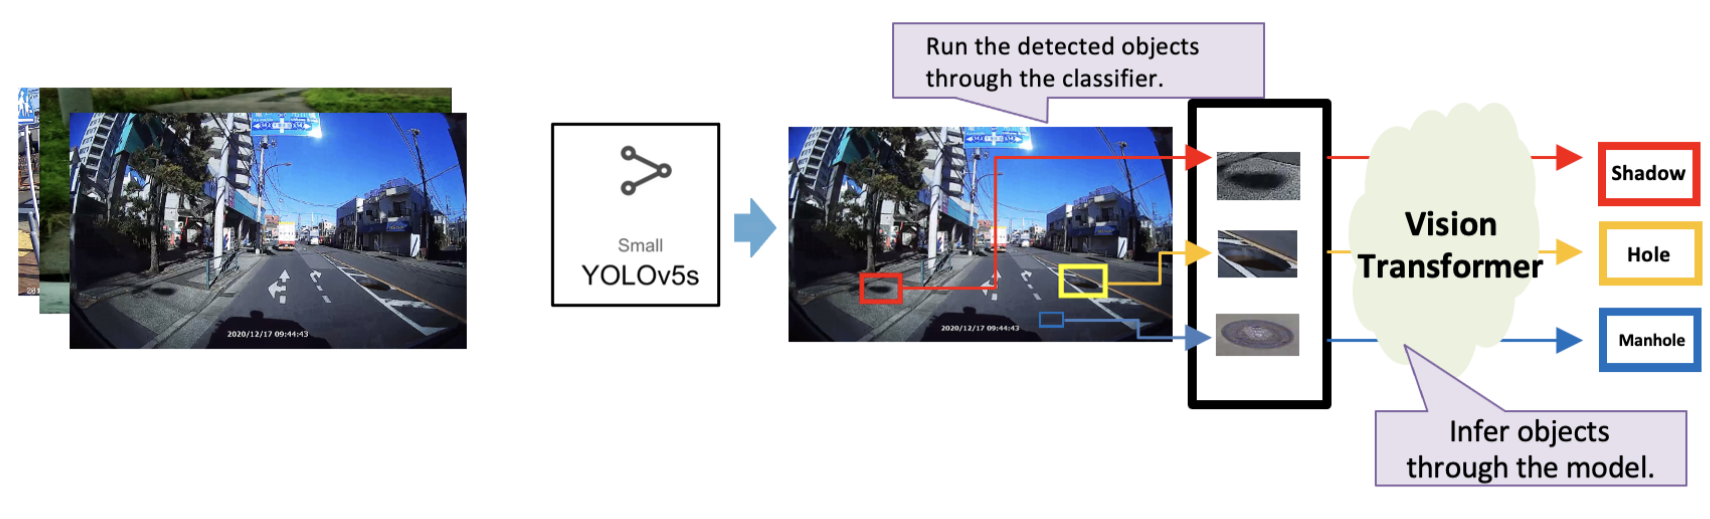
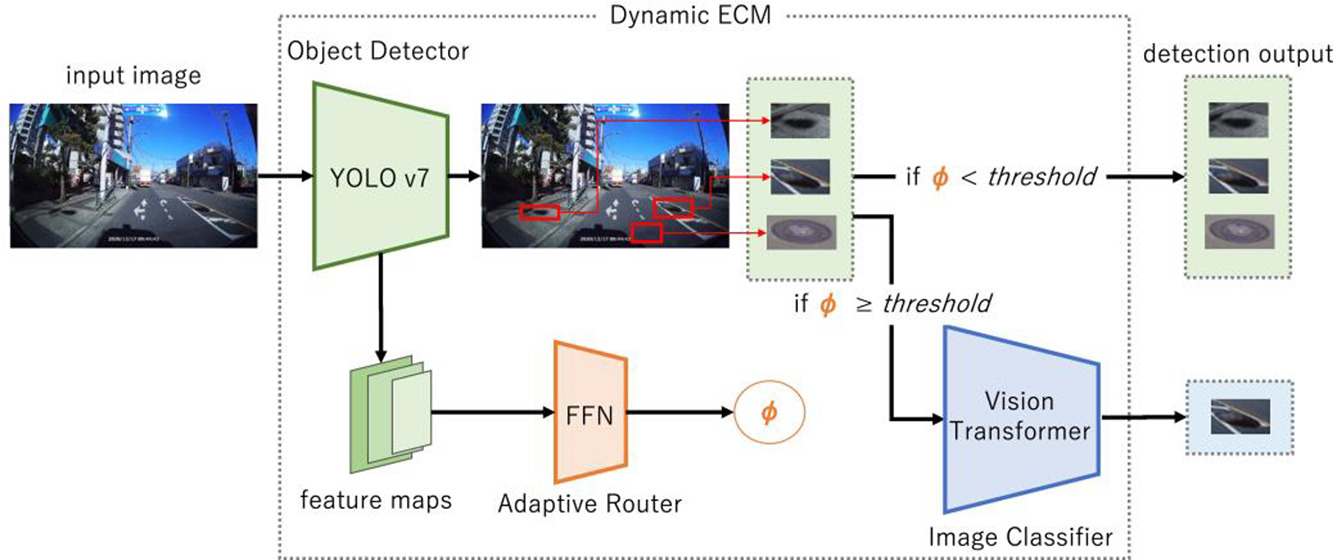
Update researches

diff --git a/src/views/AboutView.vue b/src/views/AboutView.vue
@@ -68,15 +68,15 @@
         <img src="../assets/page_research_thumbnail/bekku.png" alt="">
       </div>
       <div class="content">
-        <h1>物体検出とセマンティックセグメンテーションによる車道上に限定した未知物体検出手法の提案</h1>
+        <h1>DynamicECM: ポットホール検出のための安定かつ効率的な動的アンサンブル法</h1>
         <ul class="author">
           <li class="pj">PJ-Edogawa</li>
+          <li class="international">Pervasive and Mobile Computing [M2]</li>
           <li class="international">IEEE SMARTCOMP [M2]</li>
-          <li class="internal">IPSJ UBI [B4]</li>
         </ul>
         <div class="separator"></div>
         <p>
-          道路の老朽化により、穴あきなどの道路損傷が発生し、交通に影響を与える可能性がある。道路損傷の定期的な点検は、道路調査費用が高額なため困難である。東京都江戸川区において、既存の画像による道路損傷検知手法の実証実験を行った結果、実際の道路におけるポットホール検出では、影やマンホールの検出で誤検出が多発することが判明した。そこで本研究では、実証実験を通じて問題視されたポットホール検出における誤検出を低減する手法を提案する。
+          道路の損傷は交通の危険要因となるが、調査費用が高いため定期点検は困難である。そこで、本研究では、ゴミ収集車のダッシュカム映像を活用し、低コストで道路調査を行う手法を提案する。従来の研究では、物体検出モデルと画像分類モデルを組み合わせたECMにより誤検出を抑制したが、速度と精度の両立が課題だった。そこで、必要時のみECMを適用するDynamicECMを開発し、安定した推論を実現した。評価実験の結果、DynamicECMは従来手法よりも精度が高く、速度と検出性能のバランスに優れることが確認された。
         </p>
       </div>
     </div>
@@ -128,24 +128,6 @@
         <div class="separator"></div>
         <p>
           深層学習モデルのサイズを削減し、推論時間を高速化するために、知識蒸留と呼ばれる手法がある。この手法では、大きなモデルの出力をより軽量なモデルに模倣させることで、教師モデルの知識表現を生徒モデルに継承する。本研究では、複数の教師モデルの中から、生徒モデルに対して最適な教師モデルの組み合わせを選別しながら知識蒸留を行うフレームワークを提案する。実験により、提案手法によって訓練された生徒モデルの性能がランダムに組み合わせた生徒モデルを上回ることが示された。
-        </p>
-      </div>
-    </div>
-
-    <div class="card">
-      <div class="thumbnail">
-        <img src="../assets/page_research_thumbnail/synth.png" alt="">
-      </div>
-      <div class="content">
-        <h1>FactorVAE-VC: 発話空間の分布に着目した多者間声質変換手法の提案</h1>
-        <ul class="author">
-        </ul>
-        <div class="separator"></div>
-        <p>
-          近年、深層学習による声質変換によって変換精度が向上し、付加情報を加えることで発話の一部のみを変換する研究が行われている。特に、変分オートエンコーダ（Variational
-          AutoEncoder: VAE）のような、潜在空間の分布を用いて学習を行う手法を声質変換に適用する試みが盛んに行われている。
-          本研究では、データセットの分布をもつれなく適切に得る手法であるFactorVAEを声質変換に適用することで、発話の分布に基づいた多者間声質変換手法
-          FactorVAE-VC を提案する。
         </p>
       </div>
     </div>
